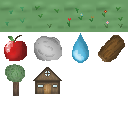
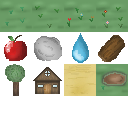
Add tile cost

Changed region(s): [[0.5, 0.5, 1.0, 0.75]]

diff --git a/survival/tile_layer.py b/survival/tile_layer.py
@@ -1,12 +1,12 @@
 from survival.image import Image
-from survival.tile import Tile
+from survival.tile_generator import TileGenerator
 
 
 class TileLayer:
     def __init__(self, width, height):
         self.width = width
         self.height = height
-        self.tiles = [[Tile() for x in range(self.width)] for y in range(self.height)]
+        self.tiles = [[TileGenerator.get_random_tile() for x in range(self.width)] for y in range(self.height)]
         self.image = Image('atlas.png')
 
     def draw(self, camera, visible_area):

diff --git a/survival/tile_generator.py b/survival/tile_generator.py
@@ -1,0 +1,19 @@
+import random
+
+from survival.tile import Tile
+
+
+class TileGenerator:
+    templates = [
+        [(0, 0), 1],  # Grass 1
+        [(32, 0), 1],  # Grass 2
+        [(64, 0), 1],  # Grass 3
+        [(96, 0), 1],  # Grass 4
+        [(64, 64), 2],  # Sand
+        [(96, 64), 2],  # Poddle
+    ]
+
+    @staticmethod
+    def get_random_tile():
+        template = random.choice(TileGenerator.templates)
+        return Tile(template[0], template[1])

diff --git a/survival/tile.py b/survival/tile.py
@@ -1,9 +1,5 @@
-import random
-
-
 class Tile:
-    origins = [(0, 0), (32, 0), (64, 0), (96, 0)]
-
-    def __init__(self, origin=(0, 0)):
-        self.origin = random.choice(Tile.origins)
+    def __init__(self, origin, cost):
+        self.origin = origin
+        self.cost = cost
         self.image = None
